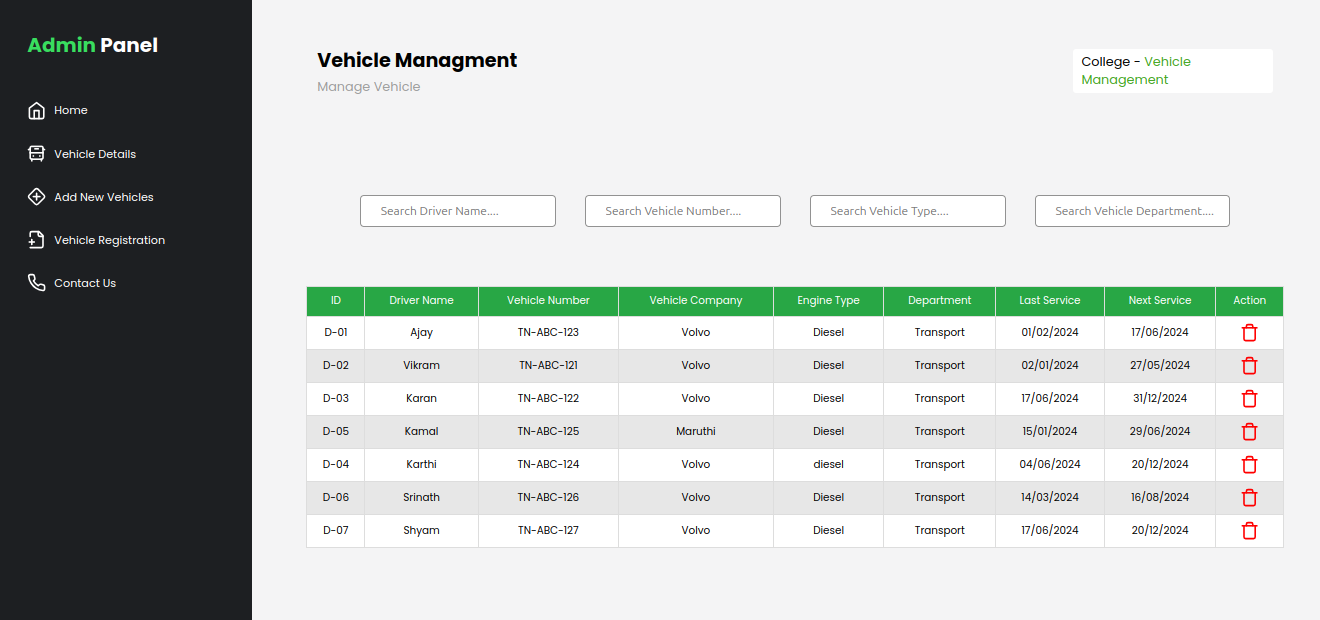
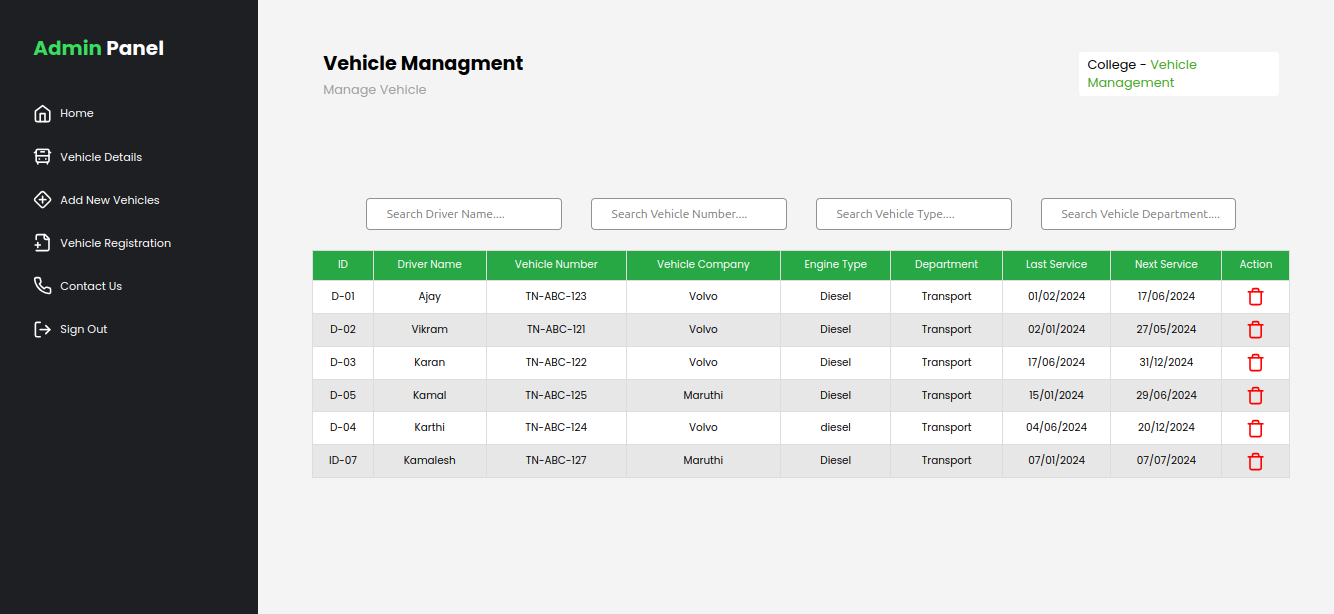
changes

diff --git a/client/src/components/Dashboard/Dash.jsx b/client/src/components/Dashboard/Dash.jsx
@@ -32,7 +32,7 @@ function Dash() {
           </div>
           <div className={Do.lk1}>
             <LogOut color='white'/>
-             <Link className={Do.lk} to='https://calibertech.netlify.app/'>Contact Us</Link>
+             <Link className={Do.lk} to='/'>Sign Out</Link>
           </div>
           </div>
         </div>
